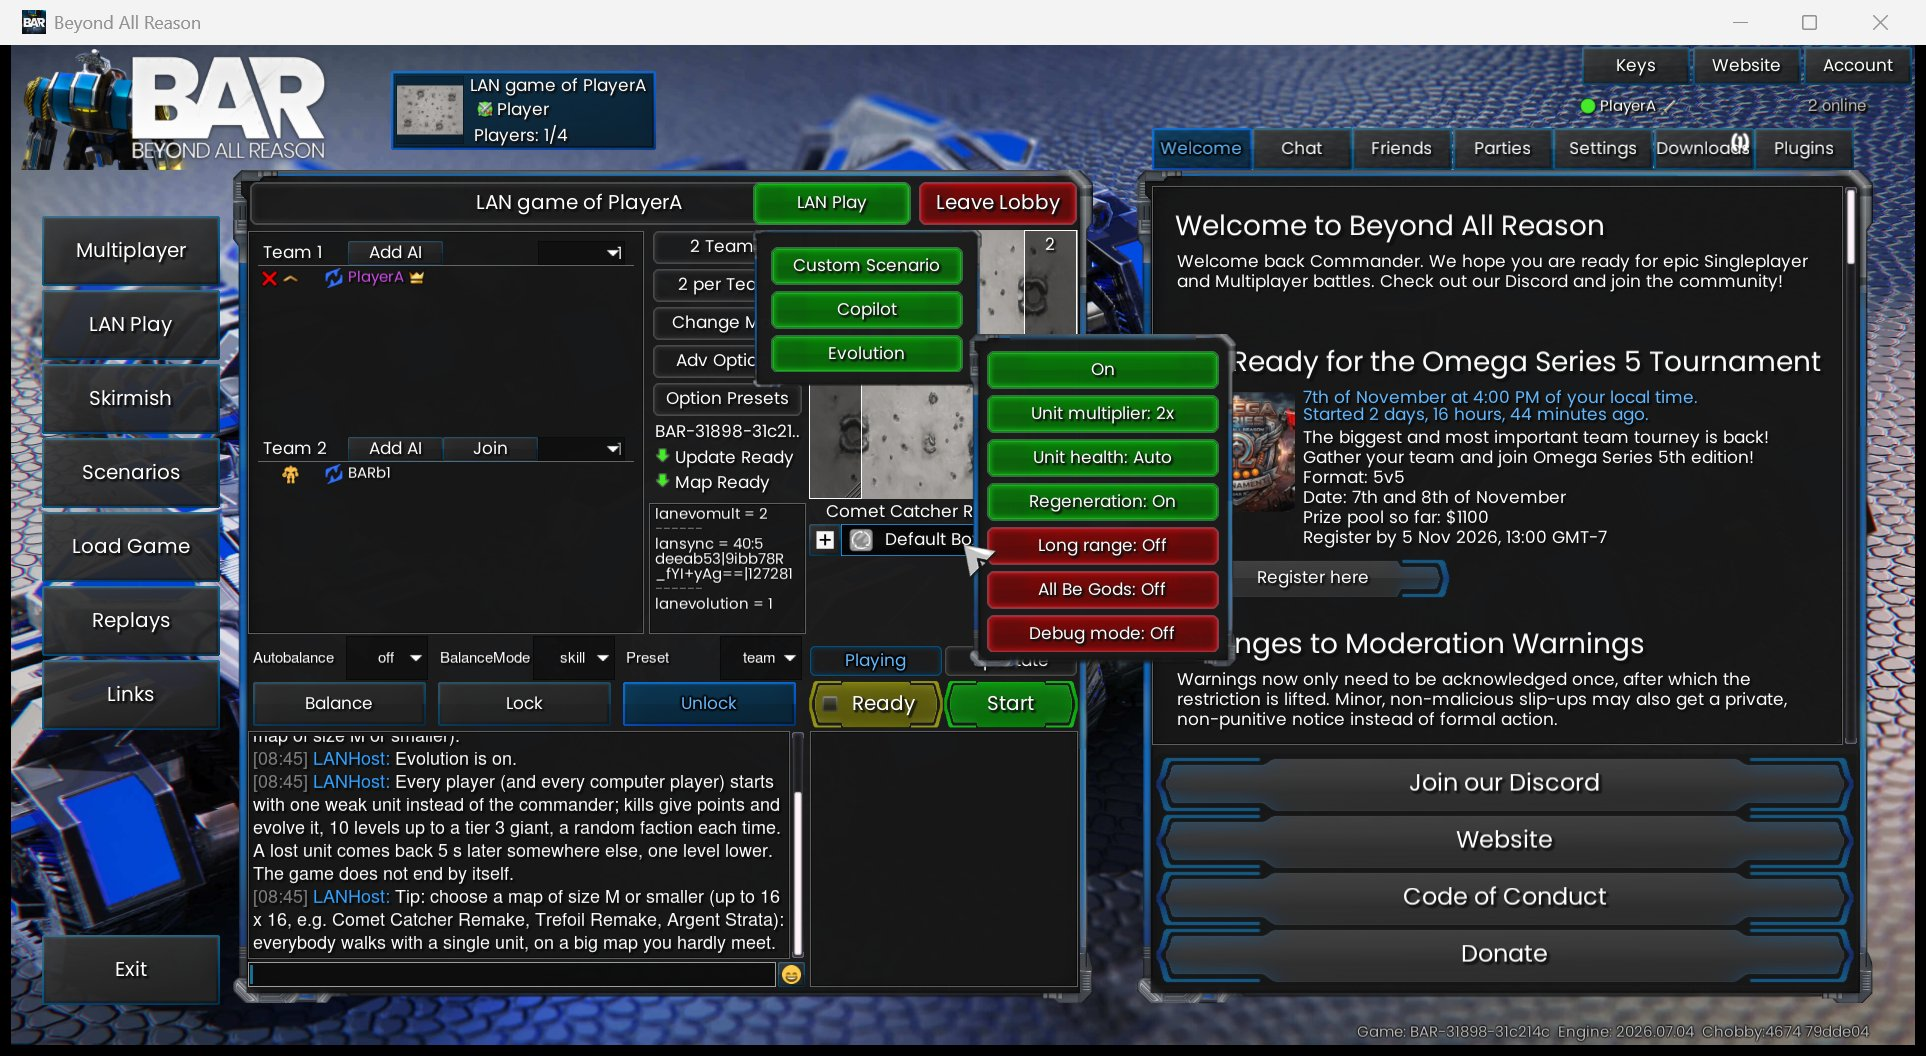
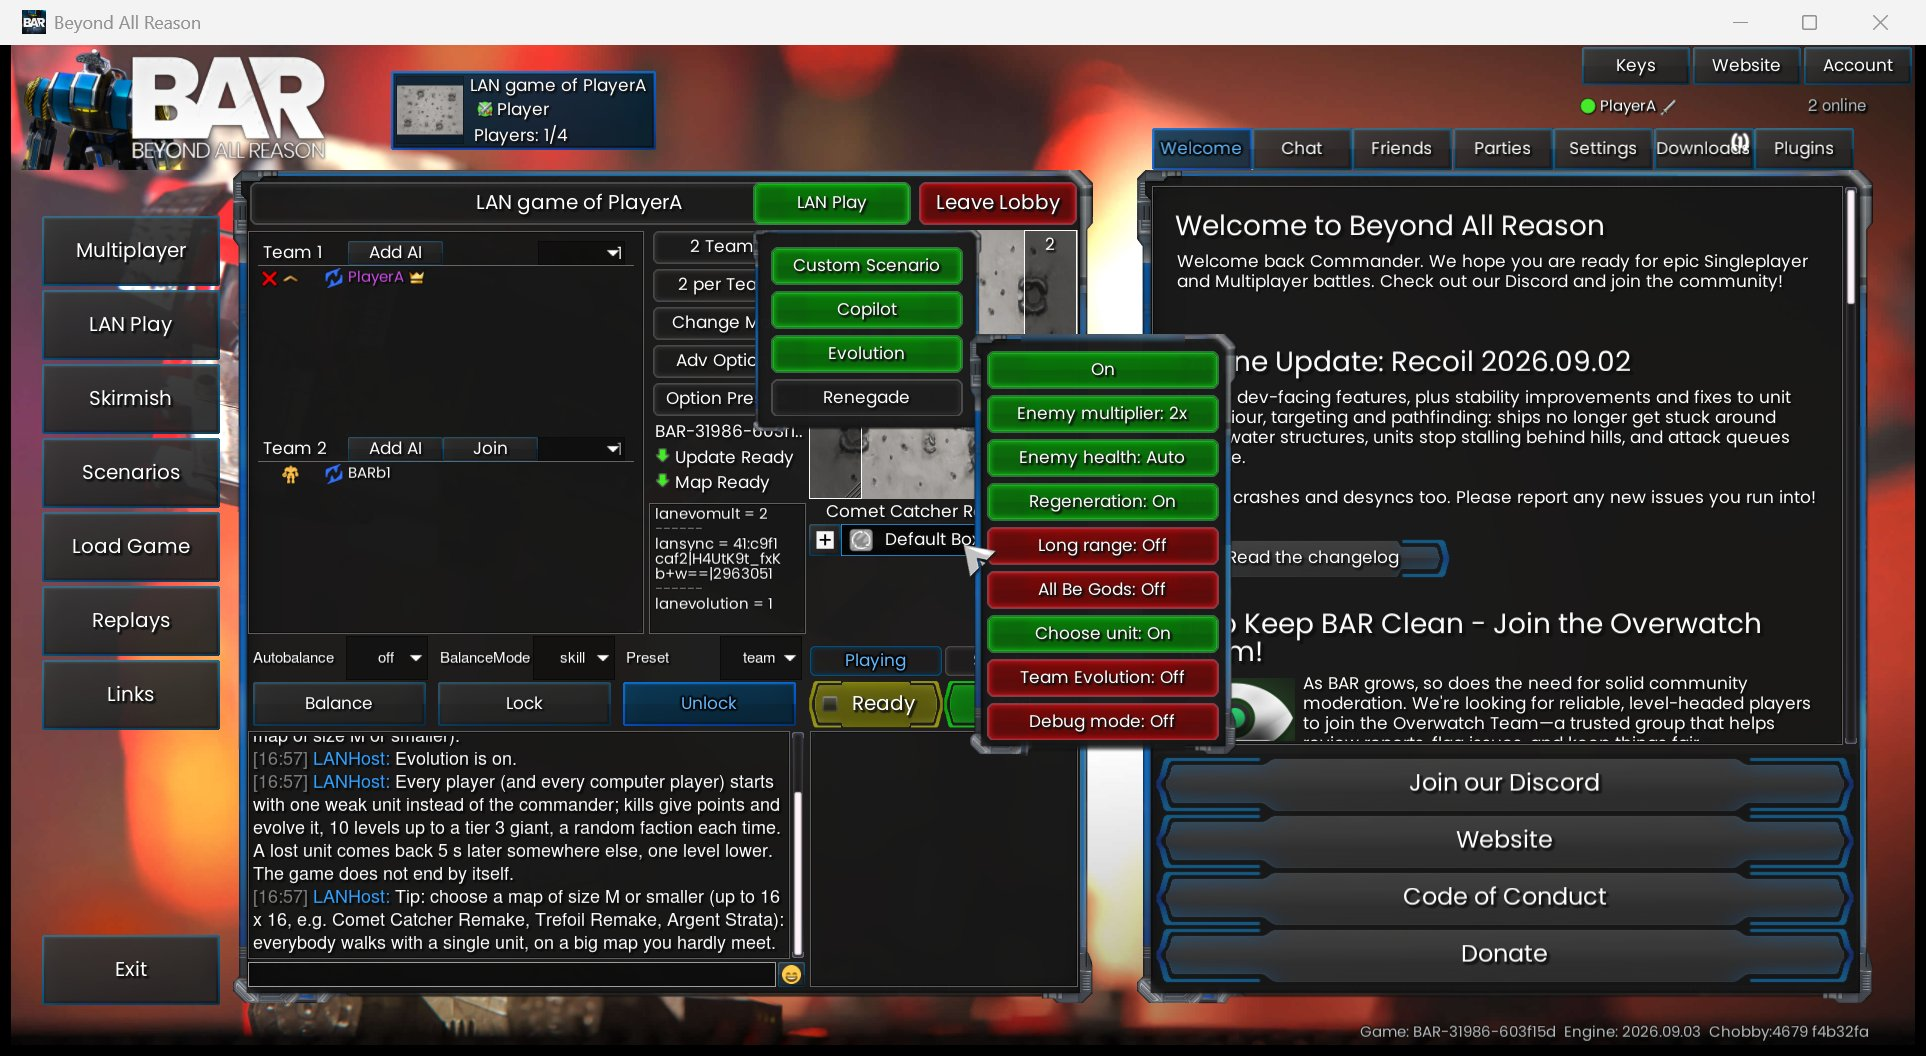
Evolution: the settings Unit multiplier and Unit health are now called Enemy multiplier and Enemy health (they count only for the enemies, the wild units and towers of Gaia). The buttons and tooltips of the room, the comments, the manual, the README, lan-play.md, the spec; the picture evolution-room
Claude-Session: https://claude.ai/code/session_01QeCYKn7fqMf4y4C8NkAq1r

Changed region(s): [[0.0, 0.0312, 0.9969, 1.0], [0.3427, 0.5, 0.405, 0.5625]]

diff --git a/specs/lan-play.md b/specs/lan-play.md
@@ -146,7 +146,7 @@ A button for the host in the menu **LAN Play** of the room (section 5). Scenario
   - The test `lan_test.ps1 -Mode evoroom -RenRoom` (Evolution and Renegade on, in the takeover mode unless `renegadeSingle=1`, menus at 14, 16 and 18 s): screenshot with only the Renegade submenu open and the options `lanrenegade = 1`, `lanrenesingle = 0` in the room.
   - The start script of a Renegade room has `deathmode=neverend` (the commanders are replaced; the round ends by its goal).
   - `LAN_VERSION` 32.
-- **Evolution:** the button Evolution of the room (host: a submenu `openEvoMenu` of the menu LAN Play with seven buttons (each has a tooltip): On (green) / Off (red, the default) = `lanevolution=1`, Unit multiplier 1x - 10x (a click steps on, then back to 1x) = `lanevomult` (read by `wildCount` of `evo_game.lua`), Unit health Auto (default, no tag: 10 % on level 1, 30 % on levels 2 to 4, 40 % on levels 5 to 7, 50 % from level 8) and 10 % - 100 % in steps of 10 (a click steps on) = `lanevohp` (`wildHp` of `evo_game.lua`: the health the wild units start with), Regeneration On (default) / Off = `lanevoregen=0` for off (`REGEN_ON`: the regeneration of the units of the players, tooltip with the rate), Long range On / Off (default off) = `lanevolong=1` (`LONG` and `LONG_RANGE` of `evo_game.lua`: nine long range units join their levels in `stageUnit`), All Be Gods On / Off (default off) = `lanevogods=1` (`ALL_GODS` of `evo_game.lua`: every player who reaches level 10 chooses a gift; off: only the first), Choose unit On (default) / Off = `lanevochoose=0` for off (`CHOOSE`: the unit of the next level of three cards; `LAN_VERSION` 33), Team Evolution On / Off (default off) = `lanevoteam=1` (`TEAM`: the players of an alliance evolve together, at most one level above the lowest mate; `LAN_VERSION` 34), Debug mode On / Off = `lanevodebug=1` (three test buttons in the game: Armageddon, Level Up, Level Down); joiners see the state; switching it on writes the rules into the chat of the room (`EVO_INFO`, line by line with `say`, for everybody; no message window), the buttons have tooltips) sets the game option `lanevolution=1`;
+- **Evolution:** the button Evolution of the room (host: a submenu `openEvoMenu` of the menu LAN Play with seven buttons (each has a tooltip): On (green) / Off (red, the default) = `lanevolution=1`, Enemy multiplier 1x - 10x (a click steps on, then back to 1x) = `lanevomult` (read by `wildCount` of `evo_game.lua`), Enemy health Auto (default, no tag: 10 % on level 1, 30 % on levels 2 to 4, 40 % on levels 5 to 7, 50 % from level 8) and 10 % - 100 % in steps of 10 (a click steps on) = `lanevohp` (`wildHp` of `evo_game.lua`: the health the wild units start with), Regeneration On (default) / Off = `lanevoregen=0` for off (`REGEN_ON`: the regeneration of the units of the players, tooltip with the rate), Long range On / Off (default off) = `lanevolong=1` (`LONG` and `LONG_RANGE` of `evo_game.lua`: nine long range units join their levels in `stageUnit`), All Be Gods On / Off (default off) = `lanevogods=1` (`ALL_GODS` of `evo_game.lua`: every player who reaches level 10 chooses a gift; off: only the first), Choose unit On (default) / Off = `lanevochoose=0` for off (`CHOOSE`: the unit of the next level of three cards; `LAN_VERSION` 33), Team Evolution On / Off (default off) = `lanevoteam=1` (`TEAM`: the players of an alliance evolve together, at most one level above the lowest mate; `LAN_VERSION` 34), Debug mode On / Off = `lanevodebug=1` (three test buttons in the game: Armageddon, Level Up, Level Down); joiners see the state; switching it on writes the rules into the chat of the room (`EVO_INFO`, line by line with `say`, for everybody; no message window), the buttons have tooltips) sets the game option `lanevolution=1`;
   - the start script then has `deathmode=neverend` and `StartPosType=0`, and the extra game is needed;
   - details in [Evolution](evolution.md).
 - **Human against human:** a scenario with `ctfconfig` or `rtfconfig` (and an AI team as the opponent) keeps the ally teams of the room.

diff --git a/docs/screenshots.md b/docs/screenshots.md
@@ -26,7 +26,7 @@ Notes on what each picture shows, so they can be retaken after a change of the l
 | `level-editor-scenario.jpg` | Scenario page (button I) of a level with a battle: title "Hold the Plateau", roles, tech, AI, win condition, start resources (the picture is from before 2026-10-28; the page has no roles, tech, AI and resources any more, they moved to the page T), grace period 2:30, ID; the map shows the plateau and the Cortex base. |
 | `evolution-game.jpg`, `evolution-help.jpg`, `evolution-armageddon.jpg` | Evolution (LAN Play), taken 2026-11-09 with `test-data\tools\pve_test.ps1 -Evo -EvoTest -Bots 6 -Shot game|help|armageddon -Widget zz_docshot.lua -Map "Comet Catcher Remake 1.8"` (window 1600 x 900, the engine's screenshot, not cut; seven players, the computer players on random values by the test message `evo|test|5` = the star button of the debug mode; `game`: the overview at the right and the own panel with the power-ups; `help`: the help window of the start of the game, stage 4; `armageddon`: the banner and the window of the gifts after `evo|test|4`). |
 | `renegade-survival.jpg`, `renegade-race-pick.jpg`, `renegade-race-results.jpg` | Renegade, taken 2026-11-17 with `test-data\tools\pve_test.ps1 -Ren -RenTest [-RenMode survival|race] -Widget zz_rendoc.lua` (window 1600 x 900, the engine's screenshot, not cut; the debug buttons and the tips hidden, the third person view; Survival on Full Metal Plate: wave 1, the view turned to the nearest enemy and firing; Race on Comet Catcher Remake 1.8: the cards with the Rascal picked, then the results after 16 checkpoints by `ren|test|11`). |
-| `evolution-room.jpg` | The room of LAN Play with the menu of the button LAN Play and the submenu Evolution open (On, Unit multiplier 2x, Unit health Auto, Regeneration On, Long range Off, All Be Gods Off, Debug mode Off), `test-data\tools\lan_test.ps1 -Mode evoroom -Shots 24` (one instance, no game; `PrintWindow` of the window 1926 x 1056, not cut; the test sets multiplier 2x, so the room shows `lanevomult = 2`). |
+| `evolution-room.jpg` | The room of LAN Play with the menu of the button LAN Play and the submenu Evolution open (On, Enemy multiplier 2x, Enemy health Auto, Regeneration On, Long range Off, All Be Gods Off, Choose unit On, Team Evolution Off, Debug mode Off; taken again 2026-11-17 for the new names), `test-data\tools\lan_test.ps1 -Mode evoroom -Shots 24` (one instance, no game; `PrintWindow` of the window 1926 x 1056, not cut; the test sets multiplier 2x, so the room shows `lanevomult = 2`). |
 | `level-editor-teams.jpg` | Teams page (button T): ten rows; teams 0 and 1 humans in alliance 2 (blue), teams 2 and 3 AIs (BARb, CircuitAI) in alliance 1 (red), team 4 NullAI in alliance 4 (yellow), the others NullAI without alliance; team 0 with 2000 metal and 3000 energy, team 2 with 500 metal. The team buttons at the left show the frames in the colors of the alliances. `test-data\tools\zz_teams.lua` (`arena_test.ps1 -Widget zz_teams.lua`), window 2400 x 1300, cut to x 1700 ... 2400, y 40 ... 790, scaled to 1000 pixels width. Taken 2026-10-28. |
 
 **Retaken 2026-11-04 (after the button S was added; the button column shows S):** all the pictures of the run below, now with the Save page (`level-editor-save.jpg`), cut as before.

diff --git a/LevelEditor/game-modes/evolution.md b/LevelEditor/game-modes/evolution.md
@@ -26,8 +26,8 @@
 | Setting | Values | Effect |
 |---|---|---|
 | **On / Off** | Off by default | green = on, red = off |
-| **Unit multiplier** | 1x to 10x | so many times the normal number of wild units and towers |
-| **Unit health** | **Auto** (default), or 10 % to 100 % | the health wild units start with; Auto = 10 % on level 1, 30 % on levels 2 to 4, 40 % on levels 5 to 7, 50 % from level 8 |
+| **Enemy multiplier** | 1x to 10x | so many times the normal number of wild units and towers |
+| **Enemy health** | **Auto** (default), or 10 % to 100 % | the health wild units start with; Auto = 10 % on level 1, 30 % on levels 2 to 4, 40 % on levels 5 to 7, 50 % from level 8 |
 | **Regeneration** | On (default) / Off | the units of the players heal by themselves |
 | **Long range** | On / Off (default) | nine units with a range of 850 Elmo or more can appear too: Sharpshooter, Arquebus, Deadeye, Starlight, Siegebreaker, Daedalus, Thermite, Mukade, Apollyon |
 | **All Be Gods** | On / Off (default) | Off = only the **first** player on level 10 chooses a gift; On = every player who reaches level 10 |
@@ -35,7 +35,7 @@
 | **Choose unit** | On (default) / Off | On = you choose the unit of the next level of three cards; Off = a random unit at once |
 | **Debug mode** | On / Off (default) | test buttons above your panel: Armageddon, Level Up / Down, XP Up / Down, one per power-up, a star (random values for every player) and Hide |
 
-![The menu LAN Play of the room: the submenu Evolution with On / Off, Unit multiplier, Unit health, Regeneration, Long range, All Be Gods and Debug mode](../../docs/evolution-room.jpg)
+![The menu LAN Play of the room: the submenu Evolution with On / Off, Enemy multiplier, Enemy health, Regeneration, Long range, All Be Gods, Choose unit, Team Evolution and Debug mode](../../docs/evolution-room.jpg)
 
 ![The help window at the start of the game: power-ups, the units of every level, Armageddon](../../docs/evolution-help.jpg)
 
@@ -131,12 +131,12 @@ The first player on level 10 chooses one of three gifts (with **All Be Gods**: e
 
 **Wild units and towers**
 
-- Units of nobody stand around the map with reduced health (setting **Unit health**; the health bar shows it). About one in seven is a **tower** (it does half of its normal damage).
+- Units of nobody stand around the map with reduced health (setting **Enemy health**; the health bar shows it). About one in seven is a **tower** (it does half of its normal damage).
 - Most of them walk around, about one in five stands still. They **only shoot back**.
 - **They grow with the weakest player:** a new one has the level of the weakest player who is still in.
   - A wild unit above that level, or two or more levels below it, is replaced (one every 3 seconds).
   - Never one that a player sees or that is within 900 Elmo of a player's unit.
-- **How many:** one per 1024 x 1024 Elmo of land, at least 12, at most 100; the **Unit multiplier** raises the number. A killed one comes back 10 seconds later somewhere else.
+- **How many:** one per 1024 x 1024 Elmo of land, at least 12, at most 100; the **Enemy multiplier** raises the number. A killed one comes back 10 seconds later somewhere else.
 
 **Energy**
 

diff --git a/README.md b/README.md
@@ -130,7 +130,7 @@ Both run on any map, in LAN Play (button **LAN Play** of the room) or alone with
 | | Evolution | Renegade |
 |---|---|---|
 | Highlights | choose your unit of three cards, power-ups, regeneration, a gift and **Armageddon** at level 10 | W A S D drives, the mouse aims, three mouse buttons fire the weapons; Space jumps (two-legged bots); a kill goal and a kill feed |
-| Settings in the room | unit multiplier, unit health, regeneration, long range, all be gods, choose unit, Team Evolution | On / Off, Always in unit (or take over any of your units with the key left of the 1), Power-ups, Goal, Survival, Race |
+| Settings in the room | enemy multiplier, enemy health, regeneration, long range, all be gods, choose unit, Team Evolution | On / Off, Always in unit (or take over any of your units with the key left of the 1), Power-ups, Goal, Survival, Race |
 | Both | sounds, tips for beginners in the first three games, a spawn shield and a comeback bonus | |
 | Try it alone | `LevelEditor\start_evolution.bat` | `LevelEditor\start_renegade.bat`, Race: `LevelEditor\start_race.bat` |
 | Status | playable; Team Evolution tested over LAN with two players | experimental; Race tested over LAN with two players, the rest with one player |

diff --git a/docs/lan-play.md b/docs/lan-play.md
@@ -29,7 +29,7 @@ The host chooses them with the green button **LAN Play** in the title row of the
 | **[Renegade](../LevelEditor/game-modes/renegade.md)** | **LAN Play** > **Renegade** > On | every player steers one unit from the inside, like a shooter; with the modes Survival and Race (experimental; the Race is tested with two players) |
 
 - **Custom Scenario:** the other players get the scenario's game file automatically.
-- **Evolution:** any map, best a small one (size M or smaller). Its settings: Unit multiplier, Unit health, Regeneration, Long range, All Be Gods, Choose unit, Team Evolution (friends in one team evolve together, at most one level apart), Debug mode.
+- **Evolution:** any map, best a small one (size M or smaller). Its settings: Enemy multiplier, Enemy health, Regeneration, Long range, All Be Gods, Choose unit, Team Evolution (friends in one team evolve together, at most one level apart), Debug mode.
 - **Renegade** has more settings:
   - **Goal:** the first player with 10, 20 (default) or 30 kills wins the round.
   - **Survival On:** all players together against 10 waves of computer units.
